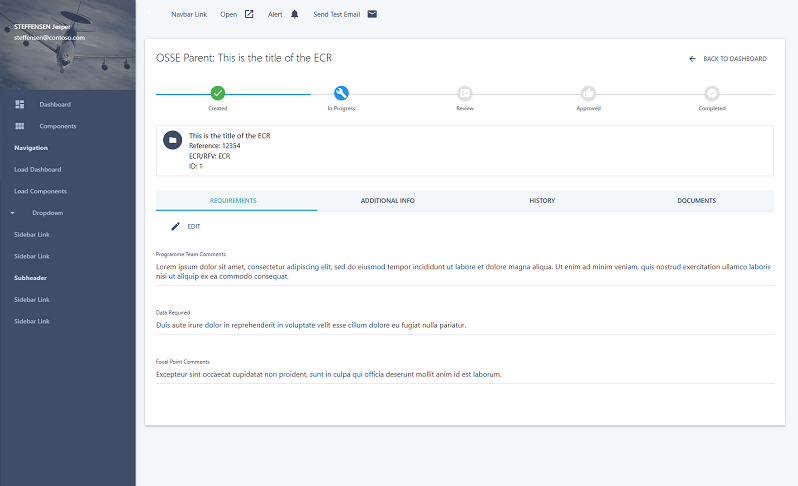
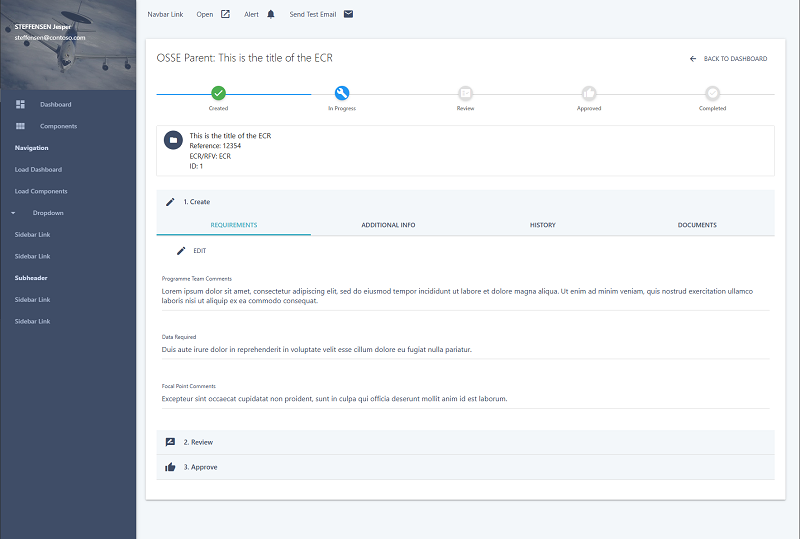
update screenshot

diff --git a/SiteAssets/templates/parent-template.html b/SiteAssets/templates/parent-template.html
@@ -24,15 +24,151 @@
             </li>
           </ul>
           
-          <!-- Tabs for related data -->
+          <!-- Collapsible for related data -->
           <div id="related-data-container" style="display: none; margin-top: 30px;">
             <div class="row">
               <div class="col s12">
-                <ul class="tabs tabs-fixed-width custom-tabs">
-                  <li class="tab col s3"><a class="active" href="#requirements-tab">Requirements</a></li>
-                  <li class="tab col s3"><a href="#additional-tab">Additional Info</a></li>
-                  <li class="tab col s3"><a href="#history-tab">History</a></li>
-                  <li class="tab col s3"><a href="#documents-tab">Documents</a></li>
+                <ul class="collapsible">
+                  <li>
+                    <div class="collapsible-header"><i class="material-icons">create</i>1. Create</div>
+                    <div class="collapsible-body" style="padding: 0;">
+                      <ul class="tabs tabs-fixed-width custom-tabs">
+                        <li class="tab col s3"><a class="active" href="#requirements-tab">Requirements</a></li>
+                        <li class="tab col s3"><a href="#additional-tab">Additional Info</a></li>
+                        <li class="tab col s3"><a href="#history-tab">History</a></li>
+                        <li class="tab col s3"><a href="#documents-tab">Documents</a></li>
+                      </ul>
+                      
+                      <!-- Requirements Tab -->
+                      <div id="requirements-tab" class="col s12">
+                        <!-- Tab navbar -->
+                        <nav class="tab-navbar z-depth-0 transparent" style="margin-bottom: 20px;">
+                          <div class="nav-wrapper">
+                            <ul class="left">
+                              <li>
+                                <a href="#!" id="edit-requirements-btn" class="btn-flat waves-effect waves-light">
+                                  <i class="material-icons left" style="color: #3f4d67;">edit</i><span style="color: #3f4d67;">Edit</span>
+                                </a>
+                              </li>
+                            </ul>
+                          </div>
+                        </nav>
+                        
+                        <div id="requirement-form-container">
+                          <!-- Form content (visible only when requirement exists) -->
+                          <div id="requirement-form-content" style="display: none;">
+                            <div class="row">
+                              <div class="input-field col s12">
+                                <textarea id="programme-team-comments" class="materialize-textarea" disabled></textarea>
+                                <label for="programme-team-comments" class="active">Programme Team Comments</label>
+                              </div>
+                            </div>
+                            <div class="row">
+                              <div class="input-field col s12">
+                                <textarea id="data-required" class="materialize-textarea" disabled></textarea>
+                                <label for="data-required" class="active">Data Required</label>
+                              </div>
+                            </div>
+                            <div class="row">
+                              <div class="input-field col s12">
+                                <textarea id="focal-point-comments" class="materialize-textarea" disabled></textarea>
+                                <label for="focal-point-comments" class="active">Focal Point Comments</label>
+                              </div>
+                            </div>
+                            
+                            <!-- Save/Cancel buttons (hidden by default) -->
+                            <div class="row" id="requirement-form-actions" style="display: none;">
+                              <div class="col s12">
+                                <button class="btn-flat waves-effect waves-light" id="save-requirements-btn">
+                                  <i class="material-icons left" style="color: #3f4d67;">save</i><span style="color: #3f4d67;">Save</span>
+                                </button>
+                                <button class="btn-flat waves-effect waves-light" id="cancel-requirements-btn">
+                                  <i class="material-icons left" style="color: #3f4d67;">cancel</i><span style="color: #3f4d67;">Cancel</span>
+                                </button>
+                              </div>
+                            </div>
+                          </div>
+                          
+                          <!-- No requirement message (shown when no requirement exists) -->
+                          <div class="row" id="no-requirement-container">
+                            <div class="col s12 center-align" style="margin-top: 30px;">
+                              <p class="grey-text" id="no-requirement-message">No requirement data found for this parent.</p>
+                              <button class="btn-flat waves-effect waves-light" id="create-requirement-btn" style="margin-top: 15px;">
+                                <i class="material-icons left" style="color: #3f4d67;">add</i><span style="color: #3f4d67;">Create Requirement</span>
+                              </button>
+                            </div>
+                          </div>
+                        </div>
+                      </div>
+              
+                      <!-- Additional Info Tab (placeholder for future implementation) -->
+                      <div id="additional-tab" class="col s12">
+                        <!-- Tab navbar -->
+                        <nav class="tab-navbar z-depth-0 transparent" style="margin-bottom: 20px;">
+                          <div class="nav-wrapper">
+                            <ul class="left">
+                              <li>
+                                <a href="#!" class="btn-flat waves-effect waves-light disabled">
+                                  <i class="material-icons left" style="color: #a9b7d0;">edit</i><span style="color: #a9b7d0;">Edit</span>
+                                </a>
+                              </li>
+                            </ul>
+                          </div>
+                        </nav>
+                        <p class="grey-text">Additional information will be displayed here in future updates.</p>
+                      </div>
+                      
+                      <!-- History Tab (placeholder for future implementation) -->
+                      <div id="history-tab" class="col s12">
+                        <!-- Tab navbar -->
+                        <nav class="tab-navbar z-depth-0 transparent" style="margin-bottom: 20px;">
+                          <div class="nav-wrapper">
+                            <ul class="left">
+                              <li>
+                                <a href="#!" class="btn-flat waves-effect waves-light disabled">
+                                  <i class="material-icons left" style="color: #a9b7d0;">edit</i><span style="color: #a9b7d0;">Edit</span>
+                                </a>
+                              </li>
+                            </ul>
+                          </div>
+                        </nav>
+                        <p class="grey-text">History and change log will be displayed here in future updates.</p>
+                      </div>
+                      
+                      <!-- Documents Tab (placeholder for future implementation) -->
+                      <div id="documents-tab" class="col s12">
+                        <!-- Tab navbar -->
+                        <nav class="tab-navbar z-depth-0 transparent" style="margin-bottom: 20px;">
+                          <div class="nav-wrapper">
+                            <ul class="left">
+                              <li>
+                                <a href="#!" class="btn-flat waves-effect waves-light disabled">
+                                  <i class="material-icons left" style="color: #a9b7d0;">edit</i><span style="color: #a9b7d0;">Edit</span>
+                                </a>
+                              </li>
+                            </ul>
+                          </div>
+                        </nav>
+                        <p class="grey-text">Related documents will be displayed here in future updates.</p>
+                      </div>
+                    </div>
+                  </li>
+                  <li>
+                    <div class="collapsible-header"><i class="material-icons">rate_review</i>2. Review</div>
+                    <div class="collapsible-body">
+                      <div class="container" style="width: 100%; padding: 1.5rem;">
+                        <p class="grey-text">The review functionality will be implemented in future updates.</p>
+                      </div>
+                    </div>
+                  </li>
+                  <li>
+                    <div class="collapsible-header"><i class="material-icons">thumb_up</i>3. Approve</div>
+                    <div class="collapsible-body">
+                      <div class="container" style="width: 100%; padding: 1.5rem;">
+                        <p class="grey-text">The approval functionality will be implemented in future updates.</p>
+                      </div>
+                    </div>
+                  </li>
                 </ul>
               </div>
               
@@ -99,120 +235,45 @@
                 .btn-flat.disabled:hover span {
                   color: #a9b7d0 !important;
                 }
-              </style>
-              
-              <!-- Requirements Tab -->
-              <div id="requirements-tab" class="col s12">
-                <!-- Tab navbar -->
-                <nav class="tab-navbar z-depth-0 transparent" style="margin-bottom: 20px;">
-                  <div class="nav-wrapper">
-                    <ul class="left">
-                      <li>
-                        <a href="#!" id="edit-requirements-btn" class="btn-flat waves-effect waves-light">
-                          <i class="material-icons left" style="color: #3f4d67;">edit</i><span style="color: #3f4d67;">Edit</span>
-                        </a>
-                      </li>
-                    </ul>
-                  </div>
-                </nav>
                 
-                <div id="requirement-form-container">
-                  <!-- Form content (visible only when requirement exists) -->
-                  <div id="requirement-form-content" style="display: none;">
-                    <div class="row">
-                      <div class="input-field col s12">
-                        <textarea id="programme-team-comments" class="materialize-textarea" disabled></textarea>
-                        <label for="programme-team-comments" class="active">Programme Team Comments</label>
-                      </div>
-                    </div>
-                    <div class="row">
-                      <div class="input-field col s12">
-                        <textarea id="data-required" class="materialize-textarea" disabled></textarea>
-                        <label for="data-required" class="active">Data Required</label>
-                      </div>
-                    </div>
-                    <div class="row">
-                      <div class="input-field col s12">
-                        <textarea id="focal-point-comments" class="materialize-textarea" disabled></textarea>
-                        <label for="focal-point-comments" class="active">Focal Point Comments</label>
-                      </div>
-                    </div>
-                    
-                    <!-- Save/Cancel buttons (hidden by default) -->
-                    <div class="row" id="requirement-form-actions" style="display: none;">
-                      <div class="col s12">
-                        <button class="btn-flat waves-effect waves-light" id="save-requirements-btn">
-                          <i class="material-icons left" style="color: #3f4d67;">save</i><span style="color: #3f4d67;">Save</span>
-                        </button>
-                        <button class="btn-flat waves-effect waves-light" id="cancel-requirements-btn">
-                          <i class="material-icons left" style="color: #3f4d67;">cancel</i><span style="color: #3f4d67;">Cancel</span>
-                        </button>
-                      </div>
-                    </div>
-                  </div>
-                  
-                  <!-- No requirement message (shown when no requirement exists) -->
-                  <div class="row" id="no-requirement-container">
-                    <div class="col s12 center-align" style="margin-top: 30px;">
-                      <p class="grey-text" id="no-requirement-message">No requirement data found for this parent.</p>
-                      <button class="btn-flat waves-effect waves-light" id="create-requirement-btn" style="margin-top: 15px;">
-                        <i class="material-icons left" style="color: #3f4d67;">add</i><span style="color: #3f4d67;">Create Requirement</span>
-                      </button>
-                    </div>
-                  </div>
-                </div>
-              </div>
-              
-              <!-- Additional Info Tab (placeholder for future implementation) -->
-              <div id="additional-tab" class="col s12">
-                <!-- Tab navbar -->
-                <nav class="tab-navbar z-depth-0 transparent" style="margin-bottom: 20px;">
-                  <div class="nav-wrapper">
-                    <ul class="left">
-                      <li>
-                        <a href="#!" class="btn-flat waves-effect waves-light disabled">
-                          <i class="material-icons left" style="color: #a9b7d0;">edit</i><span style="color: #a9b7d0;">Edit</span>
-                        </a>
-                      </li>
-                    </ul>
-                  </div>
-                </nav>
-                <p class="grey-text">Additional information will be displayed here in future updates.</p>
-              </div>
-              
-              <!-- History Tab (placeholder for future implementation) -->
-              <div id="history-tab" class="col s12">
-                <!-- Tab navbar -->
-                <nav class="tab-navbar z-depth-0 transparent" style="margin-bottom: 20px;">
-                  <div class="nav-wrapper">
-                    <ul class="left">
-                      <li>
-                        <a href="#!" class="btn-flat waves-effect waves-light disabled">
-                          <i class="material-icons left" style="color: #a9b7d0;">edit</i><span style="color: #a9b7d0;">Edit</span>
-                        </a>
-                      </li>
-                    </ul>
-                  </div>
-                </nav>
-                <p class="grey-text">History and change log will be displayed here in future updates.</p>
-              </div>
-              
-              <!-- Documents Tab (placeholder for future implementation) -->
-              <div id="documents-tab" class="col s12">
-                <!-- Tab navbar -->
-                <nav class="tab-navbar z-depth-0 transparent" style="margin-bottom: 20px;">
-                  <div class="nav-wrapper">
-                    <ul class="left">
-                      <li>
-                        <a href="#!" class="btn-flat waves-effect waves-light disabled">
-                          <i class="material-icons left" style="color: #a9b7d0;">edit</i><span style="color: #a9b7d0;">Edit</span>
-                        </a>
-                      </li>
-                    </ul>
-                  </div>
-                </nav>
-                <p class="grey-text">Related documents will be displayed here in future updates.</p>
-              </div>
+                /* Custom styling for collapsible elements */
+                .collapsible {
+                  border: none;
+                  box-shadow: none;
+                  margin: 0;
+                }
+                
+                .collapsible-header {
+                  background-color: #f3f7fa; 
+                  color: #3f4d67;
+                  font-weight: 500;
+                  border-bottom: 1px solid #ddd;
+                  padding: 1rem;
+                }
+                
+                .collapsible-header i {
+                  color: #3f4d67;
+                  margin-right: 1rem;
+                }
+                
+                .collapsible-header:hover {
+                  background-color: rgba(63, 77, 103, 0.05);
+                }
+                
+                .collapsible-header:hover i,
+                .collapsible-header:hover {
+                  color: #47b2c7;
+                }
+                
+                li.active .collapsible-header {
+                  border-bottom: none;
+                }
+                
+                .collapsible-body {
+                  border-bottom: 1px solid #ddd;
+                  padding: 0;
+                }
+              </style>
             </div>
           </div>
           
@@ -227,8 +288,9 @@
                 const parentId = urlParams.get('id');
                 
                 if (parentId) {
-                  // Initialize tabs
+                  // Initialize tabs and collapsible
                   $('.tabs').tabs();
+                  $('.collapsible').collapsible();
                   
                   // Show related data container
                   $('#related-data-container').show();
